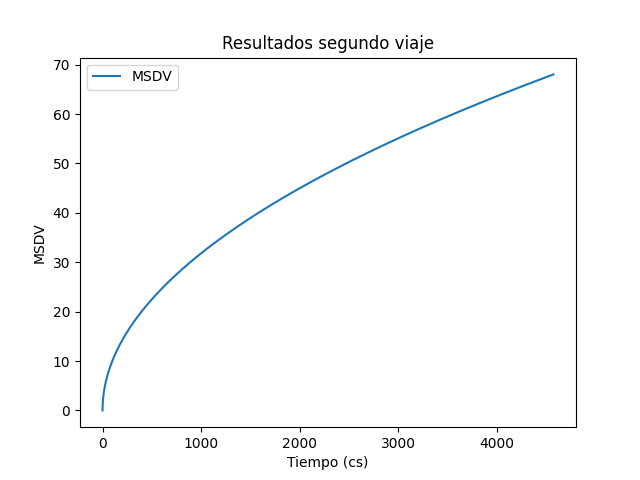
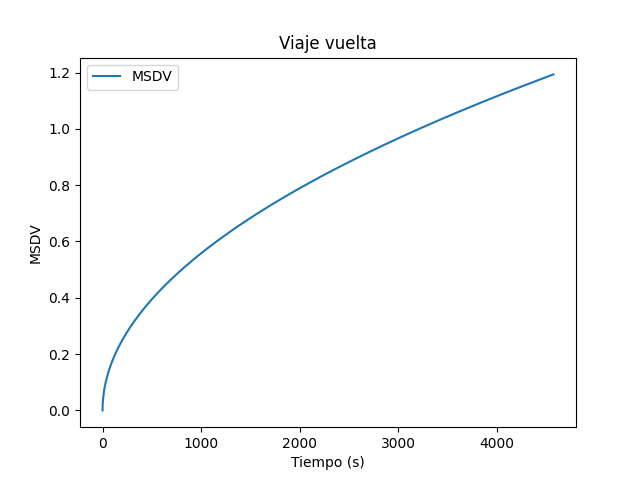
Improved MSDV Shorted

diff --git a/src/MatLab Script/MSDV(Shorted).py b/src/MatLab Script/MSDV(Shorted).py
@@ -7,9 +7,13 @@ from math import sqrt
 
 TIME_INCREMENT = 0.1
 
-data = pd.read_excel('segundoViajeFiltrado.xlsx')
+data = pd.read_excel('primerViajeFiltrado.xlsx')
 
-mean = data['Value'].mean()
+#mean = data['Value'].mean()
+
+mean = 0.01765
+
+index = 0
 
 timeAccumulator = 0.0
 MSDVAccumulator = 0.0
@@ -17,9 +21,11 @@ MSDVAccumulator = 0.0
 data['MSDV'] = 0.0
 
 def calculateMSDV(row):
-  global index, timeAccumulator, TIME_INCREMENT, MSDVAccumulator
+  global index, timeAccumulator, TIME_INCREMENT, MSDVAccumulator, mean
+  #mean = data['Value'][0:index].mean()
   MSDV = mean * sqrt(timeAccumulator)
   timeAccumulator += TIME_INCREMENT
+  index += 1
   #MSDVAccumulator += MSDV
   return MSDV
 
@@ -36,15 +42,17 @@ def generateNewTime(row):
 
 data['NewTime'] = data['NewTime'].apply(generateNewTime)
 
+#newData = pd.DataFrame()
+#newData['NewTime'] = data['NewTime'][2400:40000]
+#newData['MSDV'] = data['MSDV'][2400:40000]
+
 data.plot(x = 'NewTime', y = 'MSDV', kind = 'line')
 
-plt.xlabel("Tiempo (cs)")
+plt.xlabel("Tiempo (s)")
 plt.ylabel("MSDV")
 
-plt.title("Resultados segundo viaje")
+plt.title("Viaje ida")
 
 plt.show()
 
 #print(data)
-
-#print(mean)
